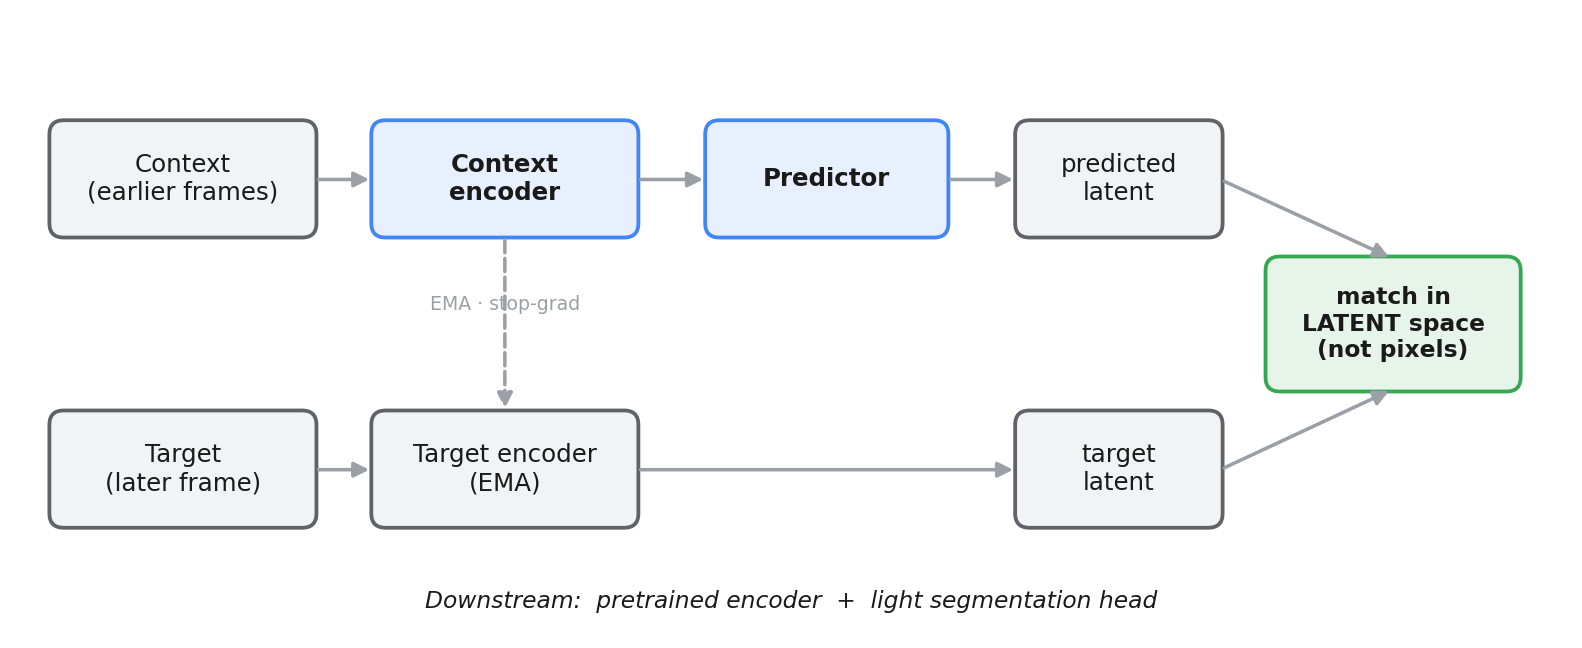
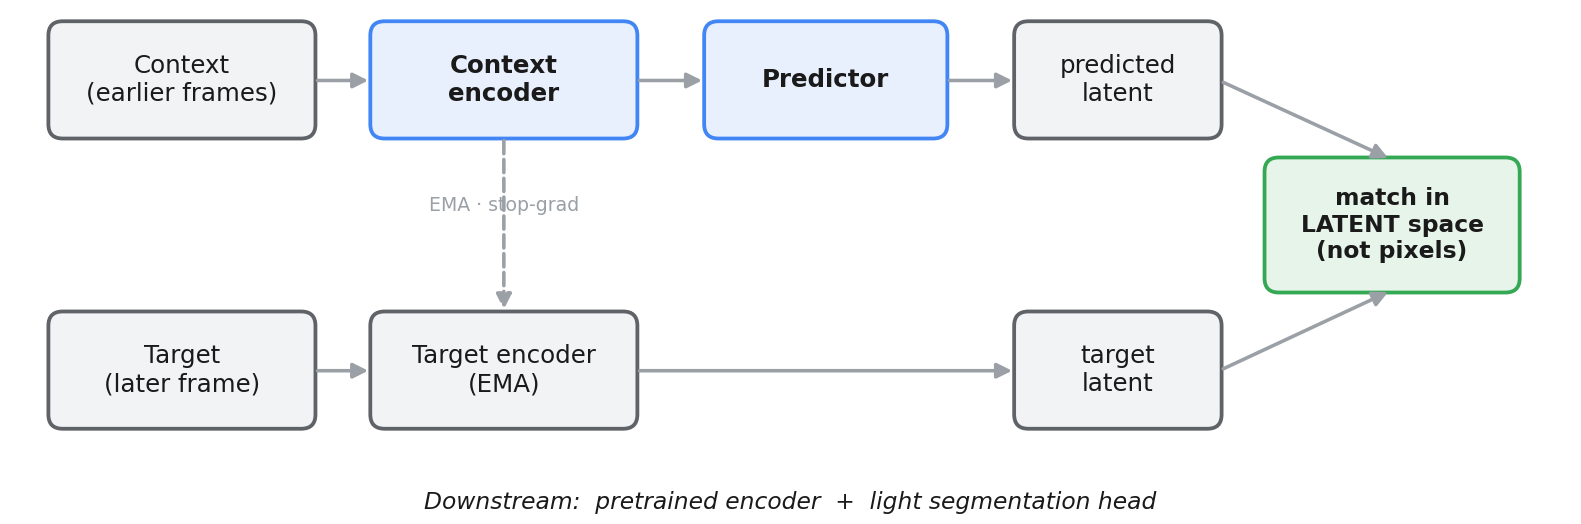
Fix the image

diff --git a/sections/slide-06-method.tex b/sections/slide-06-method.tex
@@ -6,8 +6,6 @@
 
 \begin{frame}[t]{Self-supervised learning with JEPA}
 % ---- Diagram: full width across the top ----------------------------------
-% Pull the image up to reduce the gap under the title (tune this value).
-\vspace*{-1.2em}
 \centering
 \includegraphics[width=\linewidth,height=0.5\textheight,keepaspectratio]%
 {contents/images/jepa.png}